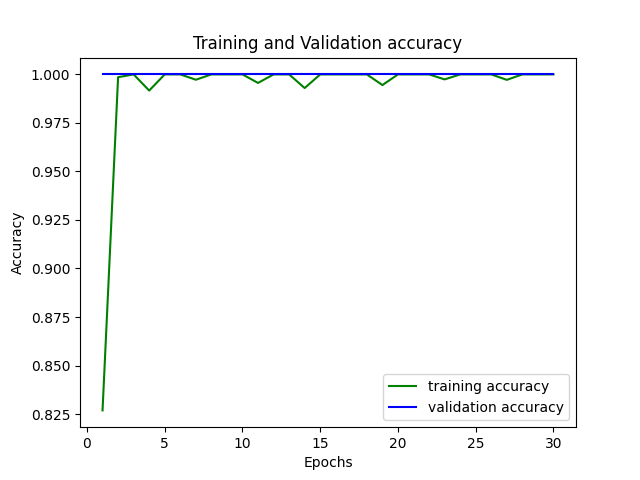
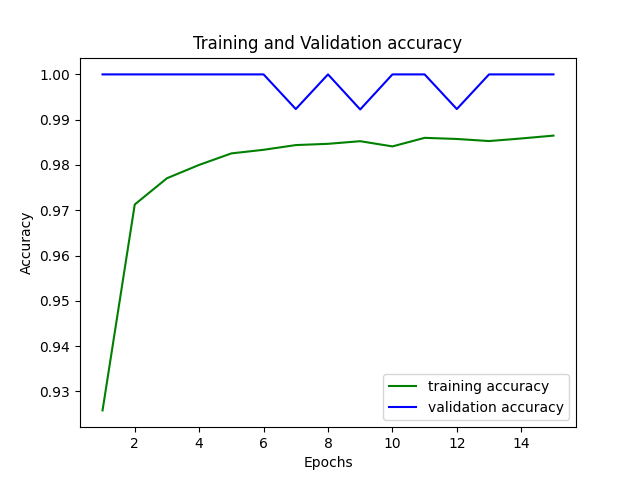
No gray, juste white

diff --git a/image_with_data_augmentation.py b/image_with_data_augmentation.py
@@ -11,6 +11,10 @@ import csv
 import sys
 
 import random
+from time import sleep
+
+def random_color():
+    return random.randint(0, 256), random.randint(0, 256), random.randint(0, 256)
 
 def transform(img_path, toggle=0, color=(255,0,0)):
 
@@ -24,52 +28,61 @@ def transform(img_path, toggle=0, color=(255,0,0)):
 
     io.imsave(img_path, img)
 
-    border(img_path, color)
-    ellipse(img_path, color)
-    rectangle(img_path, color)
+    border(img_path, color) # 
+    ellipse(img_path, color) # 
+    rectangle(img_path, color) # 
 
-def border(img_path, color=(255,0,0)):
+def border(img_path, color=random_color()): # (255,0,0)
     img = Image.open(img_path)
-    border_img = Image.new('RGB', (img.width, img.height), color)
+    border_img = Image.new('RGB', (img.width, img.height), random_color())
     border_img.paste(img, (int(img.width*random.random()/int((random.random()+1)*10)), int(img.height*random.random()/int((random.random()+1)*10))))
-    img = border_img.rotate(int(100*random.randint(-1, 1)))
+    img = border_img.rotate(random.randint(0, 360), expand=1, fillcolor = color)
     border_img.save(img_path)    
 
-def ellipse(img_path, color=(255,0,0)):
+def ellipse(img_path, color=random_color()): #   (255,0,0)
     img = Image.open(img_path)
     
     draw = ImageDraw.Draw(img)
-    draw.ellipse((int(10*random.random()), int(30*random.random()), int(75*random.random()), int(100*random.random())), outline="black", width=int(5*random.random()),fill=color)
-    draw.ellipse((int(25*random.random()), int(75*random.random()), int(90*random.random()), int(110*random.random())), outline="white", width=int(5*random.random()),fill=color)
-    img = img.rotate(int(130*random.randint(-1, 1)))
+    draw.ellipse((int(10*random.random()), int(30*random.random()), int(75*random.random()), int(100*random.random())), outline=random_color(), width=int(5*random.random()),fill=color)
+    draw.ellipse((int(25*random.random()), int(75*random.random()), int(90*random.random()), int(110*random.random())), outline=random_color(), width=int(5*random.random()),fill=color)
+    img = img.rotate(random.randint(0, 360), expand=1, fillcolor = color)
     img.save(img_path)
 
-def rectangle(img_path, color=(255,0,0)):
+def rectangle(img_path, color=random_color()): # (255,0,0) 
     img = Image.open(img_path)
     
     draw = ImageDraw.Draw(img)
-    draw.rectangle((int(60*random.random()), int(70*random.random()), int(30*random.random()), int(120*random.random())), outline="white", width=int(10*random.random()),fill=color)
-    draw.rectangle((int(80*random.random()), int(90*random.random()), int(75*random.random()), int(100*random.random())), outline="black", width=int(10*random.random()),fill=color)
-    img = img.rotate(int(160*random.randint(-1, 1)))
+    draw.rectangle((int(60*random.random()), int(70*random.random()), int(30*random.random()), int(120*random.random())), outline=random_color(), width=int(10*random.random()),fill=color)
+    draw.rectangle((int(80*random.random()), int(90*random.random()), int(75*random.random()), int(100*random.random())), outline=random_color(), width=int(10*random.random()),fill=color)
+    img = img.rotate(random.randint(0, 360), expand=1, fillcolor = color)
     img.save(img_path)
+
+def files_count(folder):
+    return len(os.listdir(dir))
+
+
 
 width = 128 
 height = 128
-images_per_classes = 1500
+images_per_classes = 3000
+classes_count = 17
 
 color_range_csv = 'color_range.csv' 
 
 if len(sys.argv) > 1:
     color_range_csv = 'color_range_with_gray.csv'
 
-f_csv = open(os.path.join('images', 'images_color_range.csv'), 'w', newline='')
+f_csv = open(os.path.join('images', color_range_csv), 'w', newline='')
 writer_csv = csv.writer(f_csv)
 writer_csv.writerow(['red','green','blue','color'])
 
 
 
 df = pd.read_csv (os.path.join('dataset', color_range_csv), sep=';', usecols= ['color', 'color_name','red', 'green', 'blue', 'lig']) 
-print(df.head())
+
+print(color_range_csv)
+print(df.color.unique())
+print(sleep(5))
 
 i = 0
 
@@ -91,7 +104,7 @@ while(True):
             blue = row['blue']
             lig = row['lig']
 
-            if lig > 85 or lig < 25:
+            if lig > 86 or lig < 24:
                 continue
 
             path = os.path.join('images', f, color)
@@ -116,7 +129,7 @@ while(True):
                 print(i, image_full_path)
                 i = i+1
     
-    if sum([len(files) for r, d, files in os.walk('./images')]) > (images_per_classes-100) * 16 * 3:
+    if sum([len(files) for r, d, files in os.walk('./images')]) > (images_per_classes-10) * classes_count * 3:
         break
 
  

diff --git a/model_02_with_gray.py b/model_02_with_gray.py
@@ -13,9 +13,10 @@ import os
 
 width = 128 
 height = 128
-epochs = 20
+epochs = 15
+classes_count = 17
 
-df = pd.read_csv ("./images/images_color_range.csv", sep=',') 
+df = pd.read_csv ("./images/color_range_with_gray.csv", sep=',') 
 #print(df['color'].head())
 
 
@@ -28,20 +29,23 @@ y = df.drop(['red', 'green','blue'], axis=1)
 #print(X)
 print(y.columns)
 
-X_train, X_test, y_train, y_test = train_test_split(X, y, test_size=0.20, random_state=42)
+X_train, X_test, y_train, y_test = train_test_split(X, y, test_size=0.15, random_state=189)
 
 #print(X_train.shape, X_test.shape, y_train.shape, y_test.shape)
 print(y_train)
 
 model = keras.Sequential([
-    keras.layers.Dense(32, activation='relu', input_shape=[3]), #inputshape=[3] #  kernel_regularizer=regularizers.l2(0.001),
-    keras.layers.Dense(32, activation='relu'), #  kernel_regularizer=regularizers.l2(0.001),
-    keras.layers.Dense(32, activation='relu'), #  kernel_regularizer=regularizers.l2(0.001),
-    keras.layers.Dense(24, activation='relu'), #  kernel_regularizer=regularizers.l2(0.001),
-    keras.layers.Dense(32, activation='relu'), #  kernel_regularizer=regularizers.l2(0.001),
+    keras.layers.Dense(32, activation='relu', kernel_regularizer=regularizers.l2(0.003), input_shape=[3]), #inputshape=[3] # 
+    keras.layers.Dense(32, kernel_regularizer=regularizers.l2(0.003), activation='relu'), # 
+    keras.layers.Dense(32, kernel_regularizer=regularizers.l2(0.003), activation='relu'), #
+    keras.layers.Dense(64, kernel_regularizer=regularizers.l2(0.003), activation='relu'), # 
+    keras.layers.Dense(64, kernel_regularizer=regularizers.l2(0.003), activation='relu'), #     
+    keras.layers.Dense(32, kernel_regularizer=regularizers.l2(0.003), activation='relu'), #     
+    keras.layers.Dense(24, kernel_regularizer=regularizers.l2(0.003), activation='relu'), # 
+    keras.layers.Dense(32, kernel_regularizer=regularizers.l2(0.003), activation='relu'), #  
 
 
-    keras.layers.Dense(17)
+    keras.layers.Dense(classes_count)
   ])
 
 
@@ -56,9 +60,9 @@ model.compile(loss=loss_function,
 model.summary()
 
 history = model.fit(x=X, y=y, 
-                    validation_split=0.2, 
+                    validation_split=0.15, 
                     epochs=epochs, 
-                    batch_size=32, 
+                    batch_size=6, 
                     #verbose=0,
                     shuffle=True)
 

diff --git a/predict_02_with_gray.py b/predict_02_with_gray.py
@@ -11,10 +11,10 @@ model.summary()
 
 
 
-y_labels = ['Blue', 'Blue-Magenta', 'Cyan', 'Cyan-Blue', 'Gray',
+y_labels = ['Blue', 'Blue-Magenta', 'Cyan', 'Cyan-Blue', 
        'Green', 'Green-Cyan', 'Magenta',
        'Magenta-Pink', 'Orange-Brown', 'Orange-Yellow',
-       'Pink', 'Pink-Red', 'Red', 'Red-Orange',
+       'Pink', 'Pink-Red', 'Red', 'Red-Orange', 'White'
        'Yellow', 'Yellow-Green']
 
 ratios = [0, 0, 0, 0, 0, 0, 0, 0, 0, 0, 0, 0, 0, 0, 0, 0, 0]
@@ -44,10 +44,10 @@ for subdir, dirs, files in os.walk(predict_folder):
 
 
         color_labels = []
-        for index, row in df_color_sorted.head(3).iterrows():
+        for index, row in df_color_sorted.iterrows(): # .head(3)
             color_labels.append(row['color'])
 
-        print(image_name[0:10], '... : ', color_labels[0], ' - ', color_labels[1], ' - ', color_labels[2])
-
+        #print(image_name[0:10], '... : ', color_labels[0], ' - ', color_labels[1], ' - ', color_labels[2])
+        print(image_name[0:10], '... : ', color_labels)
 
 

diff --git a/model_02.py b/model_02.py
@@ -14,7 +14,7 @@ width = 128
 height = 128
 epochs = 20
 
-df = pd.read_csv ("./images/images_color_range.csv", sep=',') 
+df = pd.read_csv ("./images/color_range.csv", sep=',') 
 #print(df['color'].head())
 
 
